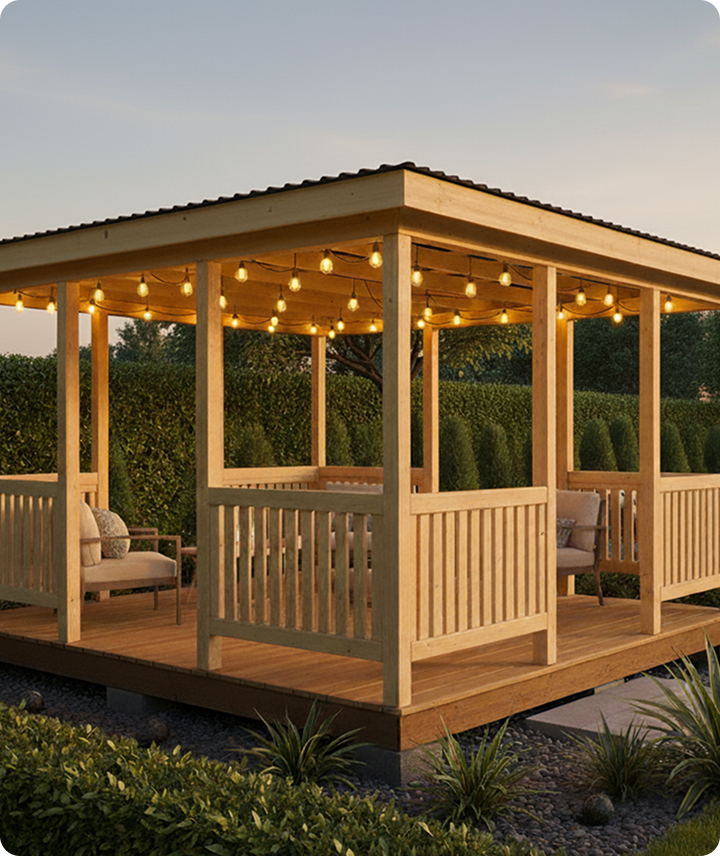
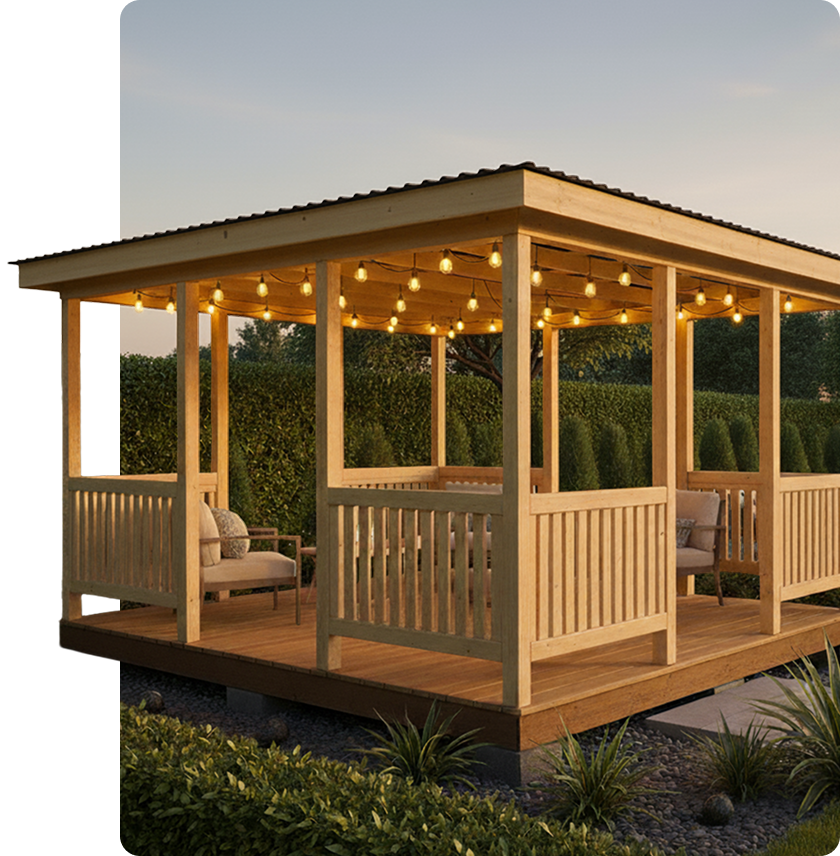
fix main hero image

diff --git a/app/components/About/Hero/index.vue b/app/components/About/Hero/index.vue
@@ -68,7 +68,7 @@
       </div>
     </div>
     <div class="container">
-      <NuxtImg class="image" src="/images/MainHero/image.png" alt="Бани 21 века" format="webp" />
+      <NuxtImg class="image" src="/images/About/hero.png" alt="Бани 21 века" format="webp" />
     </div>
   </div>
 </template>
@@ -89,10 +89,13 @@
 }
 
 .image {
-  width: 100%;
+  position: relative;
+  z-index: 2;
+  width: calc(100% + 120px);
   height: 100%;
   object-fit: cover;
   border-radius: 20px;
+  margin-left: -120px;
 }
 
 .first-row {

diff --git a/app/components/Main/Hero/index.vue b/app/components/Main/Hero/index.vue
@@ -114,9 +114,10 @@
 }
 
 .image {
-  width: 100%;
+  width: calc(100% + 120px);
   height: 100%;
   object-fit: cover;
+  margin-left: -120px;
 
   @media (max-width: $mobileBreakpoint) {
     display: none;
